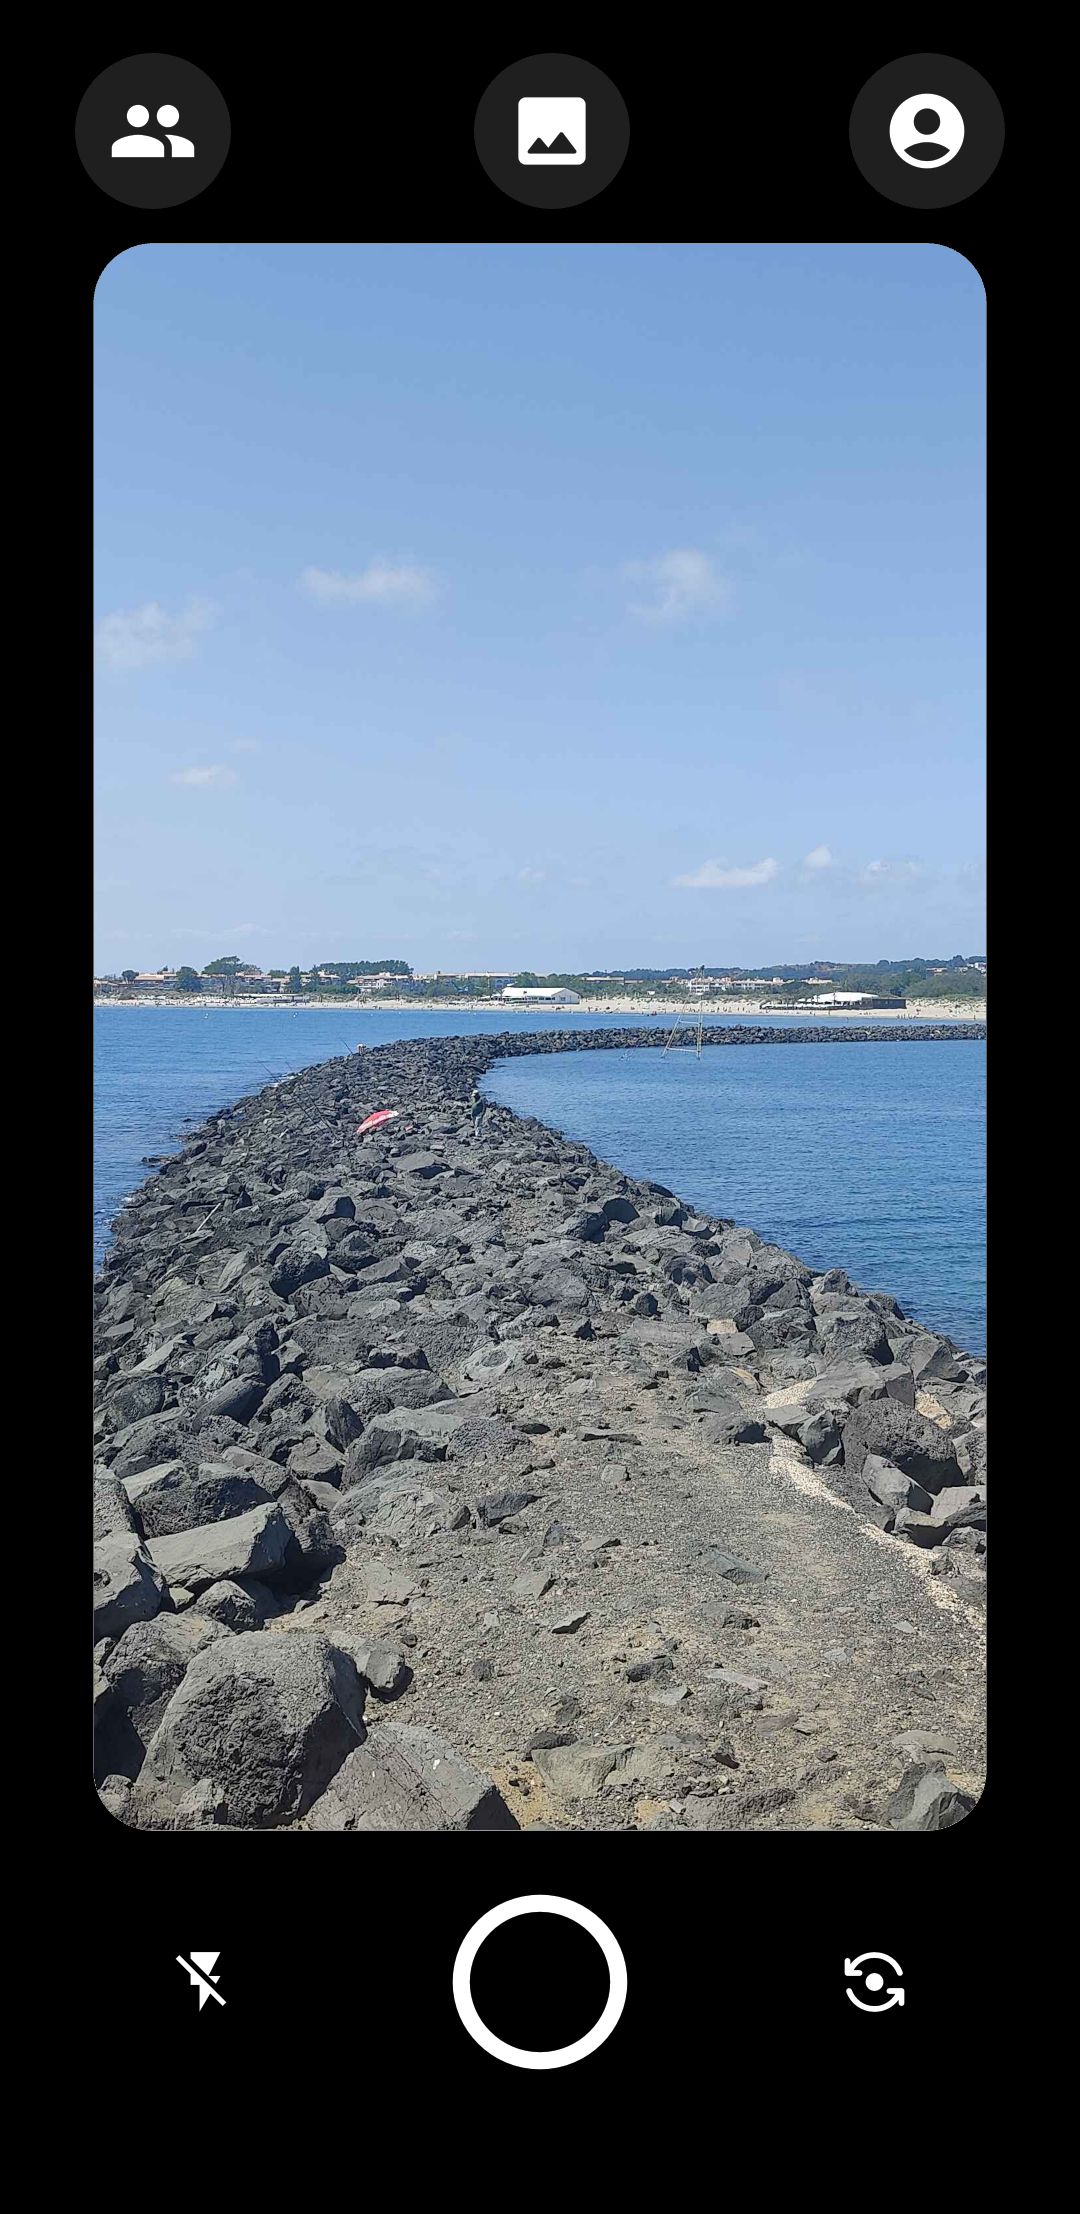
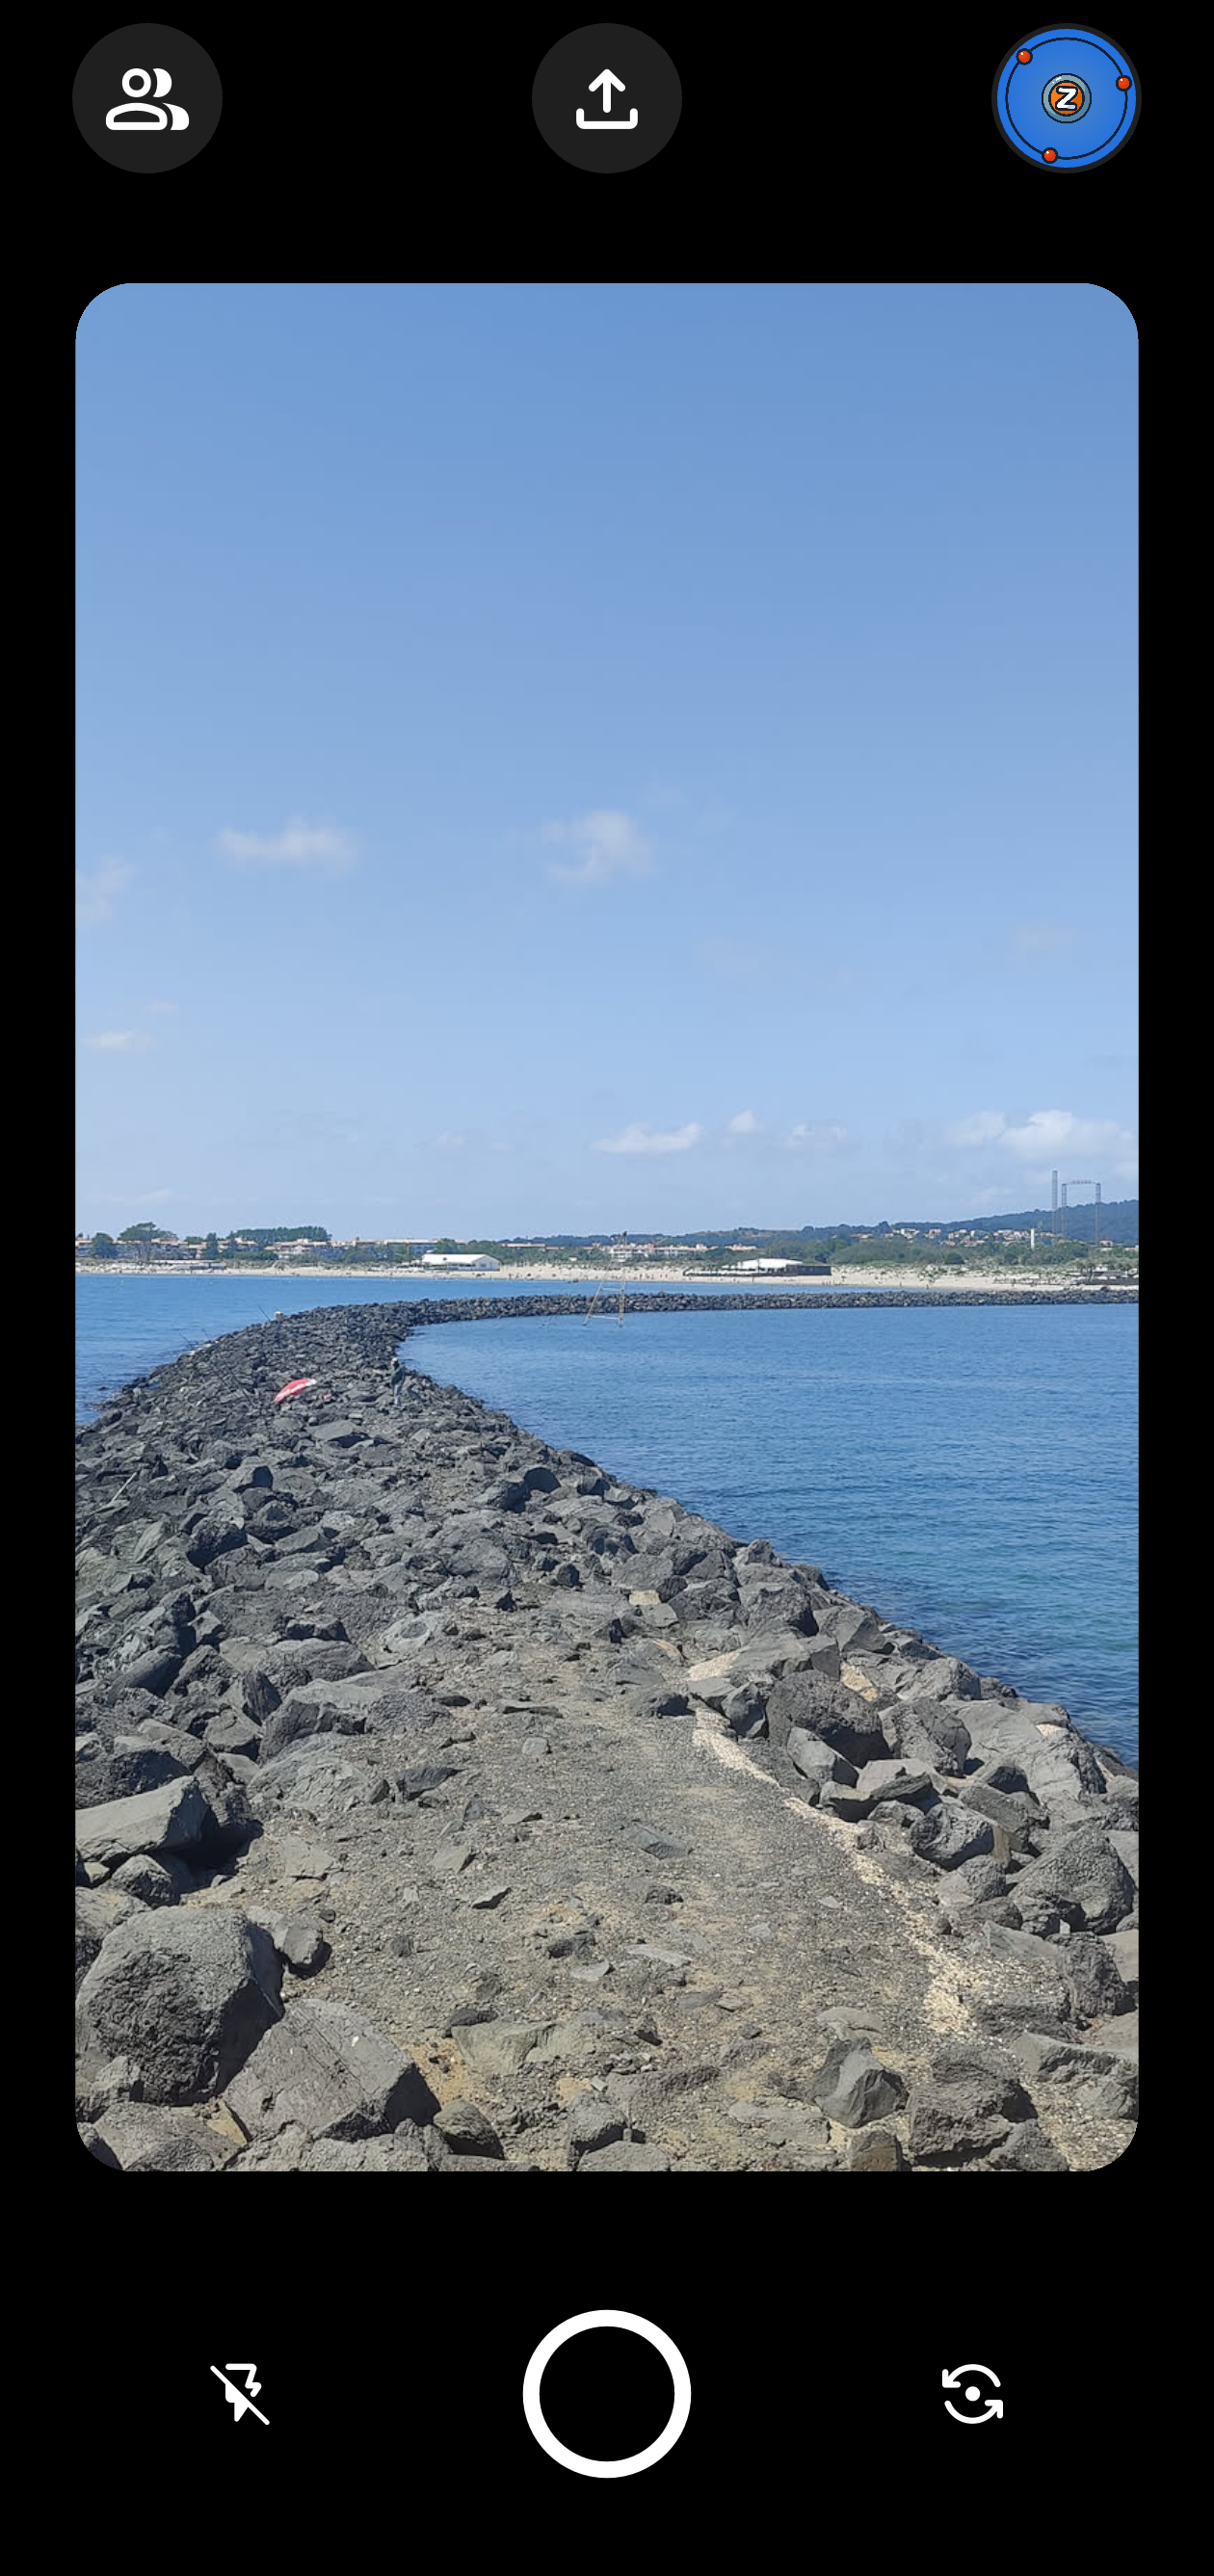
Update README.md

diff --git a/README.md b/README.md
@@ -1,52 +1,184 @@
 <div align="center">
-<img src="logo/krab_logo.png" width="80" height="80" alt="KRAB Logo">
+<br />
+<img src="logo/krab_logo.png" width="120" height="120" alt="KRAB Logo"></div>
 
-# KRAB
+<h1 align="center">KRAB</h1>
 
-An Android app to share photos with friends, visible on your home screen.
+<br />
 
-<div style="display: flex; justify-content: center; gap: 10px;">
+<h4 align="center">KRAB is an Android app for quickly sharing photos within groups of friends.
+Photos shared to a group appear directly on every member's home screen.</h4>
+
+<div align="center">
+  <a href="https://flutter.dev/">
+    <img alt="Flutter" src="https://img.shields.io/badge/Flutter-02569B?logo=flutter&logoColor=white&style=for-the-badge" />
+  </a>
+  <a href="https://dart.dev/">
+    <img alt="Dart" src="https://img.shields.io/badge/Dart-0175C2?logo=dart&logoColor=white&style=for-the-badge" />
+  </a>
+  <a href="https://supabase.com/">
+    <img alt="Supabase" src="https://img.shields.io/badge/Supabase-3FCF8E?logo=supabase&logoColor=white&style=for-the-badge" />
+  </a>
+  <br />
+  <img alt="API 24+" src="https://img.shields.io/badge/Api%2024+-50f270?logo=android&logoColor=black&style=for-the-badge" />
+  <a href="LICENSE">
+    <img alt="License GPL-3.0" src="https://img.shields.io/github/license/zatomos/KRAB?style=for-the-badge" />
+  </a>
+</div>
+
+<br />
+
+<div align="center" style="display: flex; justify-content: center; gap: 10px;">
   <img src="github/camera_page_preview.png" alt="Camera preview" height="400">
   <img src="github/home_screen_preview.png" alt="Home screen preview" height="400">
+<br />
+  <img src="github/group_gallery_preview.png" alt="Group gallery preview" height="400">
+  <img src="github/fullscreen_image_preview.png" alt="Fullscreen image preview" height="400">
 </div>
-</div>
 
-## About
+<p align="center"><i>Originally developed as a privacy-friendly alternative to the <a href="https://play.google.com/store/apps/details?id=com.locket.Locket&hl=en-US">Locket Widget App</a>.</i></p>
 
-KRAB is an Android app that lets you share photos with your friends using home screen widgets. Originally developed as a privacy-friendly alternative to the [Locket Widget App](https://play.google.com/store/apps/details?id=com.locket.Locket&hl=en-US).
+## ✨ Features
 
-This is a small, quite barebones personal project. I am not an app developer and the backend might not be perfect, but it still is functional. Feel free to contribute to the project!
+- 🔄 Sharing:
+  - Snap a photo to one or more groups and optionally add a caption.
+  - A notification is sent to every member of the group.
+  - Photos appear instantly on every group member's home screen via a widget.
+  - Users can choose to display the most recent or the three most recent images they received.
 
-## Features
+- 🌐 Social:
+  - Create or join groups with friends using an invite system.
+  - Comment on photos and reply to comments.
 
-- Create or join a group with your friends.
-- Take pictures and optionally add a caption.
-- Share the photo with your friends in the group.
-- The photo will be displayed in the widget on your home screen!
+- 🛡️ Privacy:
+  - Fully self-hostable backend.
+  - Even though the app uses FCM to send push notifications, their content is fully hidden from
+    Google.
 
-## Getting Started
-### Prerequisites
-- Install [Flutter](https://flutter.dev/docs/get-started/install).
-- Set up a [Supabase](https://supabase.com) project and get the API URL and key.
-- Set up a [Firebase](https://firebase.google.com) project and get the `google-services.json` file.
+## 🏗️ Architecture
 
-### Installation
-- Clone the repository:
-  ```bash
-  git clone https://github.com/zatomos/KRAB.git
-  ```
-  
-- Install the dependencies:
-  ```bash
-  flutter pub get
-  ```
+The backend uses a [Supabase](https://supabase.com/) instance. It authenticates users, stores the
+photos, keeps track of who belongs to which group, and sends notifications when something new is
+posted.
 
-- Setup the Supabase database using the files provided under the `supabase` directory.
+- The app talks to Supabase directly for all reads and writes. Access rules make sure each user only
+  sees content from the groups they belong to.
+- When a photo or comment is posted, the database automatically triggers a function that pushes a
+  notification (via Firebase) to the other group members, whose apps then refresh their widget.
 
+---
 
-- If you wish to provide your users with auto-updates, set up your `.env` file with the `.env.example` as a template. A `manifest.json.example` template is provided as well.
+## 🚀 Setup
 
-- Run the app:
-  ```bash
-  flutter run
-  ```
+### 1. Firebase setup
+
+1. Go to the [Firebase console](https://console.firebase.google.com) and **create a project**.
+2. **Add an Android app** to the project:
+   - Package name: **`fr.zatomos.krab`** (or your own, if you change `applicationId` in
+     `android/app/build.gradle`).
+   - Download the generated **`google-services.json`**.
+3. **Enable Cloud Messaging**: in the console, *Build → Cloud Messaging*
+     (the *Firebase Cloud Messaging API (V1)* must be enabled).
+4. **Create a service-account key** (used by the backend to send notifications):
+   - *Project settings / Service accounts / Generate new private key*.
+   - This downloads a JSON file. Keep it secret, you'll paste its contents into the backend setup
+     in the next step.
+
+> The `google-services.json` is safe to ship in the app. The **service-account key is a secret**,
+> never commit it.
+
+### 2. Backend setup: Supabase
+
+You can use a free or paid hosted instance at https://supabase.com, which has a reasonable
+[privacy policy](https://supabase.com/privacy). If you'd rather self-host your own instance, you can
+do so by running the included scripts — see the [self-hosting guide](https://supabase.com/docs/guides/self-hosting)
+to learn more.
+
+**Prerequisites:** a Linux server with [Docker](https://docs.docker.com/engine/install/) and the
+Docker Compose plugin.
+
+Run the backend setup script `setup_backend.sh` on the server. It installs self-hosted Supabase
+(if missing), configures it for KRAB, loads the database schema, creates the storage buckets,
+and deploys the notification edge functions:
+
+```bash
+curl -fsSL https://raw.githubusercontent.com/zatomos/KRAB/main/scripts/setup_backend.sh | bash
+```
+
+It will ask you for:
+- **API URL** clients use.
+- **Studio dashboard** username / password.
+- The **Firebase service-account JSON** from step 1.
+
+When it finishes, grab the **anon key** for the app:
+
+```bash
+grep '^ANON_KEY=' ~/supabase-project/.env
+```
+
+You'll also want to put your API URL behind HTTPS for production use.
+
+### 3. App setup: Flutter
+
+**Prerequisites:** [Flutter](https://flutter.dev/docs/get-started/install).
+
+1. Clone and install dependencies:
+   ```bash
+   git clone https://github.com/zatomos/KRAB.git
+   cd KRAB
+   flutter pub get
+   ```
+2. Add your Firebase config to the app. The easiest way is the FlutterFire CLI, which generates both
+   files for your project:
+   ```bash
+   dart pub global activate flutterfire_cli
+   flutterfire configure
+   ```
+   This creates `lib/firebase_options.dart` and `android/app/google-services.json`.
+3. Create your `.env` from the template and fill it in:
+   ```bash
+   cp .env.example .env
+   ```
+   ```ini
+   SUPABASE_URL='https://your-supabase-url'      # the API URL from step 2
+   SUPABASE_ANON_KEY='your_anon_key'             # the ANON_KEY from step 2
+
+   # Optional: password reset
+   PASSWORD_RESET_URL='https://your-domain/reset-password.html'
+
+   # Optional: auto-updates
+   MANIFEST_URL='YOUR_MANIFEST_URL'
+   ENABLE_AUTO_UPDATE='false'
+   ```
+4. Run it:
+   ```bash
+   flutter run
+   ```
+
+### 4. Password reset (optional)
+
+Password reset sends an email with a link to a small web page where the user sets a new password.
+It needs a publicly reachable page and an SMTP server to send the email.
+
+1. Pick a public hostname for the reset page (e.g. `https://krab.example.com`) and point it
+   (via DNS / your reverse proxy) at the server.
+2. **Get an SMTP app password.** Use an *app-specific password* from your email provider, **not**
+   your account password.
+3. Run the setup script on the server:
+   ```bash
+   curl -fsSL https://raw.githubusercontent.com/zatomos/KRAB/main/scripts/reset_password/setup-reset-pwd-page.sh | sudo bash
+   ```
+   It asks for your Supabase URL, the public page URL, the anon key, the LAN IP the auth container uses to fetch the email template, and your **SMTP host / port / user / password**. It then serves the page, whitelists the redirect, installs the branded email template, and configures SMTP.
+4. Set `PASSWORD_RESET_URL` in the app's `.env` to the page URL.
+
+### 5. Auto-update the app (optional)
+
+The app can check a manifest and prompt users to update. Host a `manifest.json` (template: `manifest.json.example`) listing your releases and their APK download URLs, then set `MANIFEST_URL` and `ENABLE_AUTO_UPDATE='true'` in the app `.env`.
+
+A helper to publish APKs + manifest to a Nextcloud instance is provided (`scripts/release.sh`).
+
+---
+
+## 📄 License
+
+KRAB is licensed under the [GNU General Public License v3.0](LICENSE).